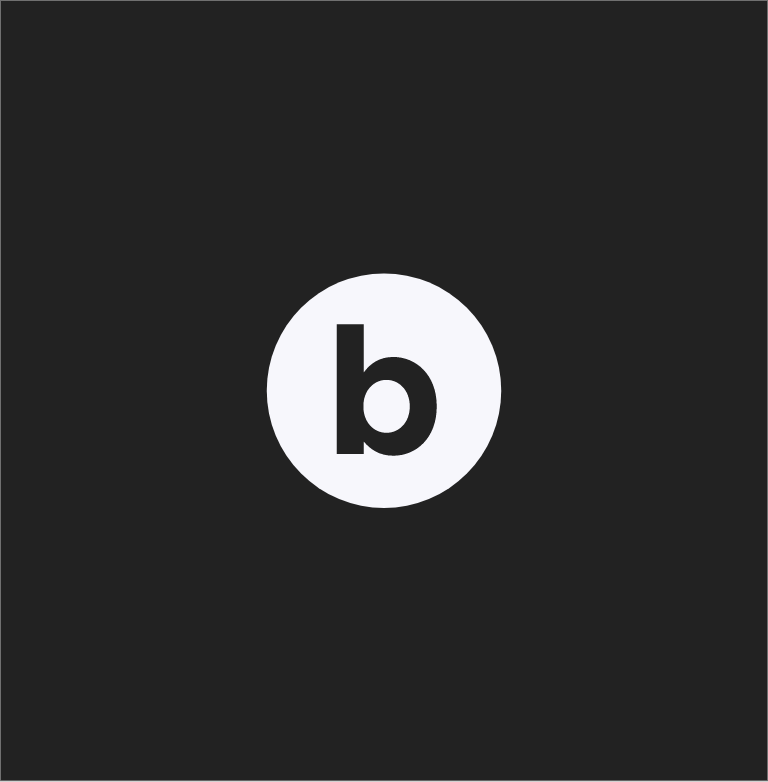
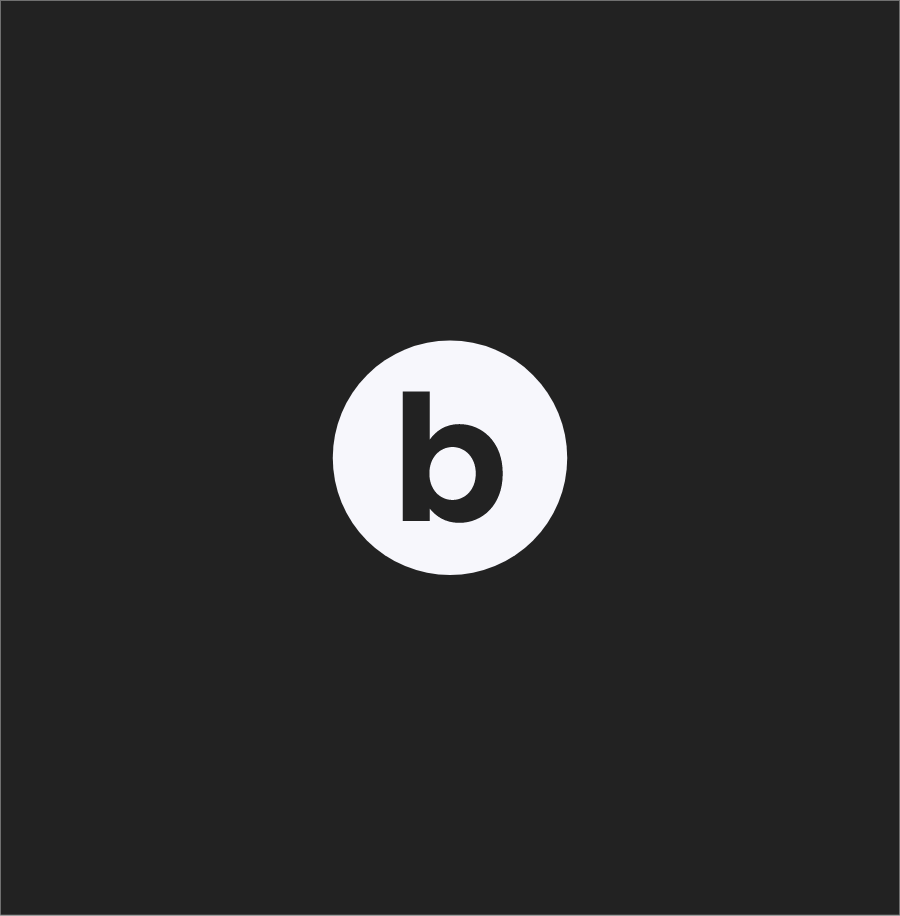
adding sharing image

Changed region(s): [[0.3438, 0.3376, 0.6562, 0.6752], [0.0, 0.9821, 1.0, 1.0]]

diff --git a/index.html b/index.html
@@ -27,8 +27,7 @@
       content="Experienced digital designer living in Ghent, currently studying at
     Becode to expand my skills and become a front end developer!"
     />
-    <meta property="og:image:width" content="200" />
-    <meta property="og:image:height" content="200" />
+
     <meta
       property="og:image"
       content="https://basmahieu-portfolio.com/icon.png?t=12345?"
